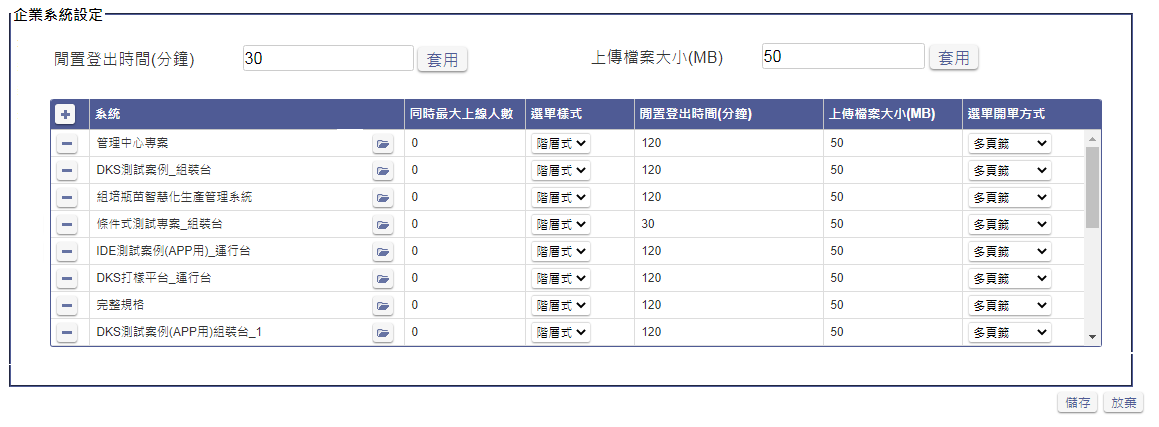
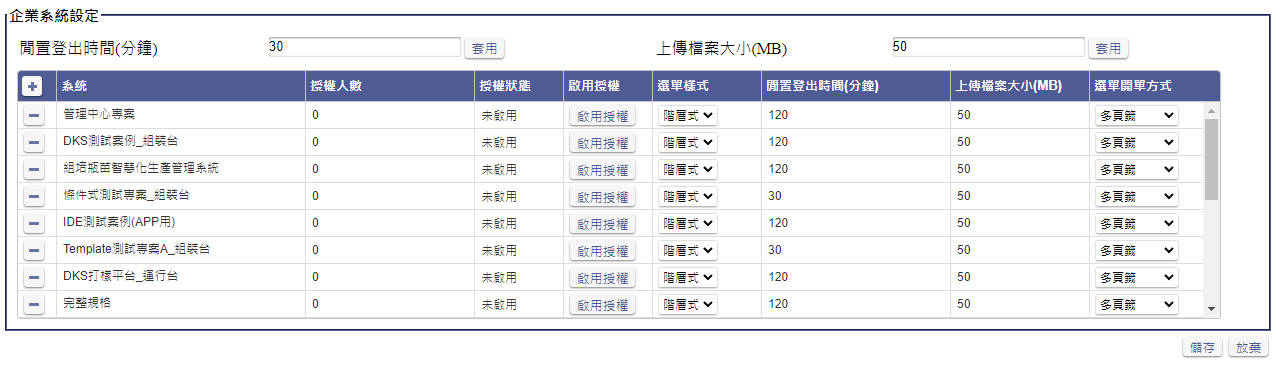
#9213 3-1

diff --git a/8.10.2/RTE/SITE/enterprisesystem/README.md b/8.10.2/RTE/SITE/enterprisesystem/README.md
@@ -13,7 +13,9 @@
     * 按鈕.刪除系統 : 點擊後，會將此筆系統資料刪除，並不會立即生效，待點擊按鈕.儲存後才生效。
     * 欄位.系統 : 不可輸入，僅顯示。
         * 按鈕.挑選系統 : 點擊後開啟視窗顯示系統清單，
-    * 欄位.同時上線最大人數 : 該企業使用此系統時，至多同時有幾個連線的限制
+    * 欄位.授權人數 : 該企業使用此系統時，可用的人數或者可加入的帳號數
+    * 欄位.授權狀態 : 目前該企業下的系統的授權啟用狀態
+    * 按鈕.啟用授權 : 點擊後開啟啟用系統授權的畫面
     * 欄位.選單樣式 : 左側欄選單的選單樣式，僅生效於舊版首頁
     * 欄位.閒置登出時間(分鐘) : 為企業使用者登入系統後的預設時間
     * 欄位.上傳檔案大小(MB) : 為企業使用者登入系統上傳檔案大小的限制
@@ -21,6 +23,36 @@
         * 多頁簽 : 同一張表單可重複開啟
         * 不重複頁簽 : 同一張表單不可重複開啟
         * 單一頁簽 : 開單時會將目前表單關閉
+
+### <div id="active">啟用授權 <path>畫面說明</path></div>
+
+![線上啟用系統授權]
+
+* 上述畫面各欄位說明如下 :
+  * 欄位.授權檔案 : 
+    * 必要欄位
+    * 檔案型態欄位
+    * 點擊後開啟檔案總管視窗，挑選軟體授權檔案
+  * 按鈕.線上啟用
+    * 點擊後執行以下動作
+      * 檢查欄位.授權檔案是否已挑選檔案，若未挑選檔案則顯示錯誤訊息【請先挑選授權檔案】
+      * 驗證授權檔案
+      * 呼叫[授權中心.線上啟用授權API](../../../LICENSE/onlineactive/README.md)，進行線上啟用
+        * 若無法線上啟用，則顯示畫面離線授權功能，如下圖所示 :
+          * ![離線啟用系統授權]
+        * 若啟用成功，啟用後關閉視窗，並重新顯示企業系統授權資料
+        * 啟用失敗顯示錯誤訊息
+  * 欄位.離線授權
+    * 必要欄位
+    * 檔案型態欄位
+    * 點擊後開啟檔案總管視窗，挑選離線啟用授權檔案
+  * 按鈕.離線啟用
+    * 點擊後執行以下動作
+      * 檢查欄位.授權檔案是否已挑選檔案，若未挑選檔案則顯示錯誤訊息【請先挑選離線啟用授權檔案】
+      * 驗證離線啟用授權檔案
+      * 若啟用成功，啟用後關閉視窗，並重新顯示企業系統授權資料
+      * 啟用失敗顯示錯誤訊息
+
 ### <div id="action">動作流程</div>
 * 站台管理員開啟畫面
 
@@ -61,6 +93,8 @@
 [表單畫面]:attachment/enterprisesytem_view.png "表單畫面"
 [企業管理員開啟畫面]:attachment/enterprisemanager_openform.png "企業管理員開啟畫面"
 [站台管理員開啟畫面]:attachment/sitemanager_openform.png "站台管理員開啟畫面"
+[線上啟用系統授權]:attachment/system_online_active.png "線上啟用系統授權"
+[離線啟用系統授權]:attachment/system_offline_active.png "離線啟用系統授權"
 [點擊按鈕.套用閒置登出時間]:attachment/click_loginkeeptime.png "點擊按鈕.套用閒置登出時間"
 [點擊按鈕.套用上傳檔案大小]:attachment/click_uploadfilesize.png "點擊按鈕.套用上傳檔案大小"
 [點擊按鈕.新增系統]:attachment/click_addsystem.png "點擊按鈕.新增系統"

diff --git a/8.10.2/UPDATE/ITEM_17/RTE/README.md b/8.10.2/UPDATE/ITEM_17/RTE/README.md
@@ -14,6 +14,7 @@
   * RTE站台管理
     * 站台啟用流程
       * 增加向授權中心認證站台授權
+      * 完整的規格文件請參照[站台啟用](../../../RTE/SITE/active/README.md)
     * 企業設定系統
       * 增加向授權中心認證系統授權
         * 當授權類型=同時連線數時
@@ -22,20 +23,32 @@
         * 當授權類型=帳號數
           * 判斷該企業系統的授權數量總和不可超過站台授權數量總和
             * 超過顯示錯誤訊息
+      * 完整的規格文件請參照[企業設定系統](../../../RTE/SITE/enterprisesystem/README.md)
   * RTE運行
     * 登入畫面
       * RTE站台授權到期前一個月，登入畫面顯示提示訊息表示授權快到期了
       * 授權已到期則禁止登入
+      * 完整的規格文件請參照[登入畫面](../../../RTE/SYSTEM/LOGIN/README.md)
     * 新版首頁
       * RTE企業下系統授權到期前一個月，當使用者登入系統時，顯示提示訊息表示授權快到期了
       * 授權已到期則禁止登入
       * 當授權類型=同時連線數時
         * 若登入系統Request數量已滿，則顯示人數已滿的訊息
+      * 完整的規格文件請參照[新版首頁](../../../RTE/SYSTEM/MAINPAGE/README.md)
+    * 舊版首頁
+      * RTE企業下系統授權到期前一個月，當使用者登入系統時，顯示提示訊息表示授權快到期了
+      * 授權已到期則禁止登入
+      * 當授權類型=同時連線數時
+        * 若登入系統Request數量已滿，則顯示人數已滿的訊息
+      * 完整的規格文件請參照[舊版首頁](../../../RTE/SYSTEM/MAINPAGE_OLD/README.md)
+    * 行動裝置版首頁
+      * RTE企業下系統授權到期前一個月，當使用者登入系統時，顯示提示訊息表示授權快到期了
+      * 授權已到期則禁止登入
+      * 當授權類型=同時連線數時
+        * 若登入系統Request數量已滿，則顯示人數已滿的訊息
+      * 完整的規格文件請參照[行動裝置版首頁](../../../RTE/SYSTEM/MAINPAGE_MOBILE/README.md)
   * 現行客戶站台產生授權資料
     * 獨立單機程式
     * 僅針對目前前已有客戶要更新引擎時產生授權檔案用
     * 由客戶端主機資料產生授權資訊，提供給單機授權程式產生RTE授權檔案
-    
-    
-  * 完整網站規劃連結 : [授權中心網站](../../../LICENSE/README.md)
   

diff --git a/8.10.2/RTE/SITE/active/README.md b/8.10.2/RTE/SITE/active/README.md
@@ -1,0 +1,70 @@
+# RTE 站台管理 啟用
+
+### <div id="active">啟用流程</div>
+* 當安裝RTE後，首次登入站台管理時，會進入啟用站台的流程，執行流程如下圖所示 :
+
+    ![站台啟用流程]
+
+### <div id="auth">認證</div>
+
+![啟用授權]
+
+* 上述畫面各欄位說明如下 :
+  * 欄位.Site名稱 : 該RTE站台的名稱
+    * 必要欄位
+    * 文字型態欄位
+  * 欄位.授權檔案 : 
+    * 必要欄位
+    * 檔案型態欄位
+    * 點擊後開啟檔案總管視窗，挑選軟體授權檔案
+  * 按鈕.線上啟用
+    * 點擊後執行以下動作
+      * 檢查欄位.授權檔案是否已挑選檔案，若未挑選檔案則顯示錯誤訊息【請先挑選授權檔案】
+      * 驗證授權檔案
+      * 呼叫[授權中心.線上啟用授權API](../../../LICENSE/onlineactive/README.md)，進行線上啟用
+        * 若無法線上啟用，則顯示畫面離線授權功能，如下圖所示 :
+          * ![離線啟用授權]
+        * 若可線上啟用，顯示啟用狀態
+  * 欄位.離線授權
+    * 必要欄位
+    * 檔案型態欄位
+    * 點擊後開啟檔案總管視窗，挑選離線啟用授權檔案
+  * 按鈕.離線啟用
+    * 點擊後執行以下動作
+      * 檢查欄位.授權檔案是否已挑選檔案，若未挑選檔案則顯示錯誤訊息【請先挑選離線啟用授權檔案】
+      * 驗證離線啟用授權檔案
+      * 顯示啟用狀態
+    
+### <div id="country">國別</div>
+
+![國別]
+
+* 待補
+
+### <div id="password">密碼變更</div>
+
+![密碼變更]
+
+* 待補
+
+### <div id="personaldata">個人資料變更</div>
+
+![個人資料變更]
+
+* 待補
+
+### <div id="midserver">服務中間台</div>
+
+![服務中間台]
+
+* 待補
+
+
+
+[站台啟用流程]:attachment/站台啟用流程.png "站台啟用流程"
+[國別]:attachment/國別.png "國別"
+[密碼變更]:attachment/密碼變更.png "密碼變更"
+[個人資料變更]:attachment/個人資料變更.png "個人資料變更"
+[服務中間台]:attachment/服務中間台.png "服務中間台"
+[啟用授權]:attachment/啟用授權.png "啟用授權"
+[離線啟用授權]:attachment/離線啟用授權.png "離線啟用授權"

diff --git a/8.10.2/RTE/SYSTEM/MAINPAGE/README.md b/8.10.2/RTE/SYSTEM/MAINPAGE/README.md
@@ -13,9 +13,20 @@
         * 950(繁體中文)
         * 該系統的第一個語系
 * 登入系統後，若使用者的帳號在[系統工具表單.用戶帳號維護]()在設定登入執行，則會自動開啟該表單
+* 當系統授權到期日已經為30天內時，顯示提示訊息【系統授權剩餘XX天將到期，請聯絡系統管理員】，如下圖所示
+  
+  ![系統授權到期前30天]
+
+* 當系統授權到期日已到期但還在為30天的寬限期內時，顯示提示訊息【系統授權已到期，寬限期剩餘XX天，請聯絡系統管理員更新系統授權】，如下圖所示
+  
+  ![系統授權到期後30天]
+
+* 當系統授權已到期且超過30天的寬限期後，顯示提示訊息【系統授權已到期，請聯絡系統管理員】並且無法使用該系統，如下圖所示
+
+  ![系統授權到期]
 
 ### <div id="logo">系統自訂版面主畫面圖片<path>(畫面說明)</path></div>
-* 該圖片可由[站台管理表單.企業資料設定]()指定，依據登入使用者所屬企業顯示主畫面圖片。，如下圖紅框所示:
+* 該圖片可由[站台管理表單.企業資料設定]()指定，依據登入使用者所屬企業顯示主畫面圖片，如下圖紅框所示:
 
     ![企業資料設定LOGO]
 
@@ -204,3 +215,6 @@
 [搜尋表單初始化樣式]:attachment/searchform_enable.png "搜尋表單初始化樣式"
 [搜尋表單駐留樣式]:attachment/searchform_focus.png "搜尋表單駐留樣式"
 [搜尋結果樣式]:attachment/searchform_result.png "搜尋結果樣式"
+[系統授權到期前30天]:attachment/system_auth.png "系統授權到期前30天"
+[系統授權到期後30天]:attachment/system_auth_expire1.png "系統授權到期後30天"
+[系統授權到期]:attachment/system_auth_expire.png "系統授權到期"

diff --git a/8.10.2/RTE/SYSTEM/LOGIN/README.md b/8.10.2/RTE/SYSTEM/LOGIN/README.md
@@ -9,6 +9,18 @@
 
 * 登入畫面也可在[站台管理表單.系統自訂版面]()上傳客製的畫面。
 * 登入資訊區塊位置: 水平置中；垂直置中
+* 當站台授權到期日已經為30天內時，顯示提示訊息【站台授權剩餘XX天將到期，請聯絡系統管理員】，如下圖所示
+  
+  ![站台授權到期前30天]
+
+* 當站台授權到期日已到期但還在為30天的寬限期內時，顯示提示訊息【站台授權已到期，寬限期剩餘XX天，請聯絡站台管理員更新站台授權】，如下圖所示
+  
+  ![站台授權到期後30天內]
+
+* 若站台授權已到期且已超過寬限期的30天，開啟登入畫面直接顯示訊息【站台授權已到期，無法登入，請洽系統管理員】，並且無法使用登入功能，如下圖所示
+
+  ![站台授權已到期]
+
 * <ps>其餘待補</ps>
 
 ### <div id="account">帳號 <path>(畫面說明)</path></div>
@@ -77,3 +89,6 @@
 [欄位.驗證碼鍵盤輸入ENTER]:attachment/captchaenter.png "欄位.驗證碼鍵盤輸入ENTER"
 [點擊按鈕.登入]:attachment/clicklogin.png "點擊按鈕.登入"
 [登入驗證]:attachment/loginverify.png "登入驗證"
+[站台授權到期前30天]:attachment/login_auth.png "站台授權到期前30天"
+[站台授權到期後30天內]:attachment/login_auth_expire1.png "站台授權到期後30天內"
+[站台授權已到期]:attachment/login_auth_expire.png "站台授權已到期"

diff --git a/8.10.2/RTE/SYSTEM/MAINPAGE_MOBILE/README.md b/8.10.2/RTE/SYSTEM/MAINPAGE_MOBILE/README.md
@@ -25,7 +25,17 @@
         * 1.標題列 : 點擊後可收合表單清單畫面
         * 2.系統表單清單 : 
 
-* 後續待補
+* 當系統授權到期日已經為30天內時，顯示提示訊息【系統授權剩餘XX天將到期，請聯絡系統管理員】，如下圖所示
+  
+  ![系統授權到期前30天]
+
+* 當系統授權到期日已到期但還在為30天的寬限期內時，顯示提示訊息【系統授權已到期，寬限期剩餘XX天，請聯絡系統管理員更新系統授權】，如下圖所示
+  
+  ![系統授權到期後30天]
+
+* 當系統授權已到期且超過30天的寬限期後，顯示提示訊息【系統授權已到期，請聯絡系統管理員】並且無法使用該系統，如下圖所示
+
+  ![系統授權到期]
 
 ### <div id="changesystem">切換系統</div>
 待補
@@ -77,3 +87,6 @@
 [樣式主題點擊確定]:attachment/styletheme_clickok.png "樣式主題點擊確定"
 [樣式主題點擊取消]:attachment/styletheme_clickcancel.png "樣式主題點擊取消"
 [樣式主題點擊返回]:attachment/styletheme_clickreturn.png "樣式主題點擊返回"
+[系統授權到期前30天]:attachment/system_auth.png "系統授權到期前30天"
+[系統授權到期後30天]:attachment/system_auth_expire1.png "系統授權到期後30天"
+[系統授權到期]:attachment/system_auth_expire.png "系統授權到期"

diff --git a/8.10.2/RTE/SYSTEM/MAINPAGE_OLD/README.md b/8.10.2/RTE/SYSTEM/MAINPAGE_OLD/README.md
@@ -1,1 +1,19 @@
-#待補
+### <div id="homepage">首頁畫面</div>
+* 當系統授權到期日已經為30天內時，顯示提示訊息【系統授權剩餘XX天將到期，請聯絡系統管理員】，如下圖所示
+  
+  ![系統授權到期前30天]
+
+* 當系統授權到期日已到期但還在為30天的寬限期內時，顯示提示訊息【系統授權已到期，寬限期剩餘XX天，請聯絡系統管理員更新系統授權】，如下圖所示
+  
+  ![系統授權到期後30天]
+
+* 當系統授權已到期且超過30天的寬限期後，顯示提示訊息【系統授權已到期，請聯絡系統管理員】並且無法使用該系統，如下圖所示
+
+  ![系統授權到期]
+
+* 其餘待補
+
+
+[系統授權到期前30天]:attachment/system_auth.png "系統授權到期前30天"
+[系統授權到期後30天]:attachment/system_auth_expire1.png "系統授權到期後30天"
+[系統授權到期]:attachment/system_auth_expire.png "系統授權到期"

diff --git a/8.10.2/RTE/SITE/active/_sidebar.md b/8.10.2/RTE/SITE/active/_sidebar.md
@@ -1,0 +1,8 @@
+# Site 管理 啟用
+* [上一頁](../README.md)
+* [啟用流程](README.md#active)
+  * [認證](README.md#auth)
+  * [國別](README.md#country)
+  * [密碼變更](README.md#password)
+  * [個人資料變更](README.md#personaldata)
+  * [服務中間台](README.md#midserver)

diff --git a/8.10.2/RTE/SITE/enterprisesystem/_sidebar.md b/8.10.2/RTE/SITE/enterprisesystem/_sidebar.md
@@ -1,5 +1,6 @@
 # 企業資料
 * [上一頁]({back})
 * [畫面說明](README.md#view)
+  * [啟用授權](README.md#active)
 * [動作流程](README.md#action)
 * [history](history.md)

diff --git a/8.10.2/RTE/SITE/_sidebar.md b/8.10.2/RTE/SITE/_sidebar.md
@@ -1,6 +1,6 @@
 # Site 管理
 * [上一頁](../README.md)
-* [Site啟用]()
+* [Site啟用](active/README.md)
 * [登入]()
 * [首頁]()
 * 角色

diff --git a/8.10.2/RTE/SYSTEM/MAINPAGE_OLD/_sidebar.md b/8.10.2/RTE/SYSTEM/MAINPAGE_OLD/_sidebar.md
@@ -1,2 +1,3 @@
 # 首頁(PC)(舊版)
 * [上一頁](../README.md)
+* [首頁畫面](README.md#homepage)
